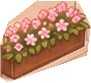
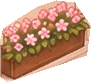
Edge-based depth for the counter, reading corner and planters
- Pieces can have a `front` polyline (their front floor edge, traced from
  the lowest opaque pixel per column). Her standing depth is now slotted
  above every overlapping piece she's in front of and below every one
  she's behind, comparing her feet with the slanted edge for these pieces
  and the anchor y for the rest. Fixes the display case hiding her on the
  rug, and the armchair and coffee table both covering her
- Front edges for counter_l, display_case, counter_r, the planters, both
  armchairs and the coffee table; F2 draws them
- A second coffee table footprint box closes the too-narrow gap to
  armchair_l
- Tighten planter_r's outline to the flower tops, so a strip of floor
  no longer covers her legs when she stands behind it

diff --git a/src/data/props.js b/src/data/props.js
@@ -5,12 +5,19 @@
 //   depth (optional): her depth while seated, when the default (just above or below the chair) is wrong.
 //   chair_3_sw needs it to sit in front of the lamp cabinet, and chair_3_nw is approached from the side
 //   because it backs onto the railing.
+// front (optional): the piece's front floor edge as a polyline, left to right, for long or V-shaped pieces
+//   where one anchor y gives the wrong depth. She's drawn in front of the piece when her feet are below
+//   this edge at her x. Traced from the lowest opaque pixel per column of the piece PNG.
 // Only chairs that exist in layout.js have a seat (table 2 has no ne chair).
 export const PROPS = {
   // reading corner
-  armchair_l:   { collide: { w: 84, h: 44 }, seat: [227, 478], approach: [272, 506], face: 'se' },
-  armchair_r:   { collide: { w: 80, h: 40 }, seat: [391, 458], approach: [358, 486], face: 'sw' },
-  coffee_table: { collide: { w: 64, h: 30 } },
+  armchair_l:   { collide: { w: 84, h: 44 }, seat: [227, 478], approach: [272, 506], face: 'se',
+                  front: [[170, 491], [212, 507], [268, 482]] },
+  armchair_r:   { collide: { w: 80, h: 40 }, seat: [391, 458], approach: [358, 486], face: 'sw',
+                  front: [[350, 452], [398, 473], [436, 458]] },
+  // the second box closes the gap to armchair_l, which is too narrow for her
+  coffee_table: { collide: [{ w: 64, h: 30 }, { w: 26, h: 24, dx: -40, dy: 2 }],
+                  front: [[274, 477], [312, 498], [352, 480]] },
   lamp_floor:   { collide: { w: 16, h: 10 } },
   // window table
   table_1:      { collide: { w: 56, h: 28 } },
@@ -31,18 +38,30 @@ export const PROPS = {
   chair_3_nw:   { collide: { w: 44, h: 26 }, seat: [966, 572], approach: [914, 587], face: 'nw' },
   lamp_table_r: { collide: { w: 36, h: 60, dx: 20 } },
   // counter
-  counter_l:    { collide: { w: 72, h: 60, dy: 6 } },
-  display_case: { collide: [{ w: 56, h: 40, dx: -28, dy: -10 }, { w: 56, h: 40, dx: 28, dy: 18 }] },
-  counter_r:    { collide: [{ w: 60, h: 40, dx: -28, dy: 12 }, { w: 60, h: 40, dx: 30, dy: -10 }] },
+  counter_l:    { collide: { w: 72, h: 60, dy: 6 }, front: [[614, 420], [680, 442]] },
+  display_case: { collide: [{ w: 56, h: 40, dx: -28, dy: -10 }, { w: 56, h: 40, dx: 28, dy: 18 }],
+                  front: [[680, 447], [792, 500]] },
+  counter_r:    { collide: [{ w: 60, h: 40, dx: -28, dy: 12 }, { w: 60, h: 40, dx: 30, dy: -10 }],
+                  front: [[798, 500], [920, 458]] },
   // entrance
-  planter_l:    { collide: { w: 70, h: 30 } },
-  planter_m:    { collide: { w: 76, h: 30 } },
-  planter_r:    { collide: { w: 70, h: 30 } },
+  planter_l:    { collide: { w: 70, h: 30 }, front: [[118, 632], [190, 663]] },
+  planter_m:    { collide: { w: 76, h: 30 }, front: [[332, 722], [406, 753], [420, 747]] },
+  planter_r:    { collide: { w: 70, h: 30 }, front: [[782, 681], [864, 654]] },
   lamp_post_1:  { collide: { w: 56, h: 24, dy: 8 } },
   lamp_post_2:  { collide: { w: 56, h: 24, dy: 8 } },
   lamp_post_3:  { collide: { w: 54, h: 24, dy: 8 } },
   chalkboard:   { collide: { w: 70, h: 20 } },
 };
+
+// y of a front edge polyline at x (clamped to its ends)
+export function edgeY(front, x) {
+  if (x <= front[0][0]) return front[0][1];
+  for (let i = 1; i < front.length; i++) {
+    const [x0, y0] = front[i - 1], [x1, y1] = front[i];
+    if (x <= x1) return y0 + (y1 - y0) * (x - x0) / (x1 - x0);
+  }
+  return front[front.length - 1][1];
+}
 
 // every footprint box of a piece as { x, y, w, h } (centre, size) in room pixels
 export function boxes(piece) {

diff --git a/src/scenes/Cafe.js b/src/scenes/Cafe.js
@@ -4,13 +4,15 @@
 import EasyStar from 'easystarjs';
 import { DOOR, FLOOR } from '../data/seats.js';
 import { PIECES } from '../data/layout.js';
-import { PROPS, boxes } from '../data/props.js';
+import { PROPS, boxes, edgeY } from '../data/props.js';
 import { HATS, OUTFITS } from '../data/unlocks.js';
 import { FX, FY, SC, dirFrom, witchTexture, witchAnims } from '../witch.js';
 
 const ROOM_W = 1054, ROOM_H = 851;
 const GS = 8, GW = Math.ceil(ROOM_W / GS), GH = Math.ceil(ROOM_H / GS); // walk grid
 const FEET_W = 14, FEET_H = 6; // the bit of floor she stands on
+const BODY_W = 36, BODY_H = 100; // her drawn body around the feet, for working out which pieces overlap her
+const EDGE_SLACK = 8; // she counts as in front of a front edge from this close behind it (footprints are boxy)
 const SPEED = 130; // px per second, same as legacy
 const ROSE = 0xf2a3b6, BUTTER = 0xf6d46e, SAGE = 0x8fc29a, LAVENDER = 0xb5a4f0;
 
@@ -205,6 +207,22 @@ export default class Cafe extends Phaser.Scene {
     });
   }
 
+  // standing depth: above every piece her body overlaps that she's in front of, below every one she's
+  // behind. Pieces with a `front` edge compare her feet with that edge at her x, others with their anchor y.
+  // If the two can't both hold, she stays in front so she's never hidden.
+  standDepth() {
+    const { x, y } = this.witch;
+    let lo = -Infinity, hi = Infinity;
+    for (const p of PIECES) {
+      if (x + BODY_W / 2 < p.left || x - BODY_W / 2 > p.left + p.w || y < p.top || y - BODY_H > p.top + p.h) continue;
+      const f = PROPS[p.key]?.front;
+      if (f ? y > edgeY(f, x) - EDGE_SLACK : y >= p.y) lo = Math.max(lo, p.y);
+      else hi = Math.min(hi, p.y);
+    }
+    if (y > lo && y < hi) return y;
+    return lo < hi && hi < Infinity ? (Math.max(lo, hi - 1) + hi) / 2 : lo + 0.5;
+  }
+
   // seated depth: in front of a chair she faces the viewer from (its back is behind her),
   // behind a chair she faces away from the viewer on (its back covers her legs)
   seatDepth(piece) {
@@ -262,11 +280,11 @@ export default class Cafe extends Phaser.Scene {
     }
 
     if (!this.posing) this.witch.play(`${this.tex}:${moving ? 'walk' : 'idle'}_${this.dir}`, true);
-    this.witch.setDepth(this.seated ? this.seatDepth(this.seated) : this.witch.y);
-    this.shadow.setPosition(this.witch.x, this.witch.y - 1).setDepth(this.witch.y - 0.5);
+    this.witch.setDepth(this.seated ? this.seatDepth(this.seated) : this.standDepth());
+    this.shadow.setPosition(this.witch.x, this.witch.y - 1).setDepth(this.witch.depth - 0.01);
   }
 
-  // F2 or Shift+D shows footprints, anchors, seats, the floor outline, blocked walk cells and her path.
+  // F2 or Shift+D shows footprints, anchors, front edges, seats, the floor outline, blocked walk cells and her path.
   // While it's on: H cycles hat colours, O cycles outfit colours, X plays the sit animation.
   setupDebug() {
     const g = this.add.graphics().setDepth(10000).setVisible(false);
@@ -281,6 +299,8 @@ export default class Cafe extends Phaser.Scene {
         g.lineStyle(1, LAVENDER, 1).strokeRect(b.x - b.w / 2, b.y - b.h / 2, b.w, b.h);
       }
       g.fillStyle(ROSE, 1).fillCircle(p.x, p.y, 2.5);
+      const f = PROPS[p.key]?.front;
+      if (f) g.lineStyle(1.5, ROSE, 1).strokePoints(f.map(([x, y]) => ({ x, y })));
       const s = PROPS[p.key];
       if (s?.seat) {
         if (!this.free(...s.approach)) console.warn(`${p.key}: approach point isn't walkable`);

diff --git a/tools/cut_pieces.py b/tools/cut_pieces.py
@@ -50,7 +50,7 @@ PIECES = {
     # entrance
     'planter_l':    dict(anchor=(158, 645), poly=[(116,600),(125,590),(140,588),(170,600),(190,612),(200,620),(200,656),(190,664),(118,632),(114,615)]),
     'planter_m':    dict(anchor=(375, 735), poly=[(328,689),(340,672),(365,672),(395,690),(412,697),(422,707),(420,748),(403,754),(332,722),(330,700)]),
-    'planter_r':    dict(anchor=(822, 668), poly=[(786,622),(815,600),(855,601),(868,625),(864,655),(785,682),(778,676),(778,645)]),
+    'planter_r':    dict(anchor=(822, 668), poly=[(781,628),(798,617),(816,606),(834,600),(852,602),(868,625),(864,655),(785,682),(778,676),(778,640)]),
     'lamp_post_1':  dict(anchor=(450, 712), poly=[(435,669),(452,669),(467,682),(466,708),(478,712),(478,782),(450,795),(422,785),(422,712),(440,705),(435,690)]),
     'lamp_post_2':  dict(anchor=(607, 700), poly=[(598,634),(612,634),(623,648),(622,672),(635,678),(635,758),(605,765),(578,755),(578,680),(593,670),(590,648)]),
     'lamp_post_3':  dict(anchor=(755, 705), poly=[(744,592),(756,592),(767,606),(766,628),(782,636),(782,705),(755,715),(728,705),(728,640),(742,630),(738,607)]),
